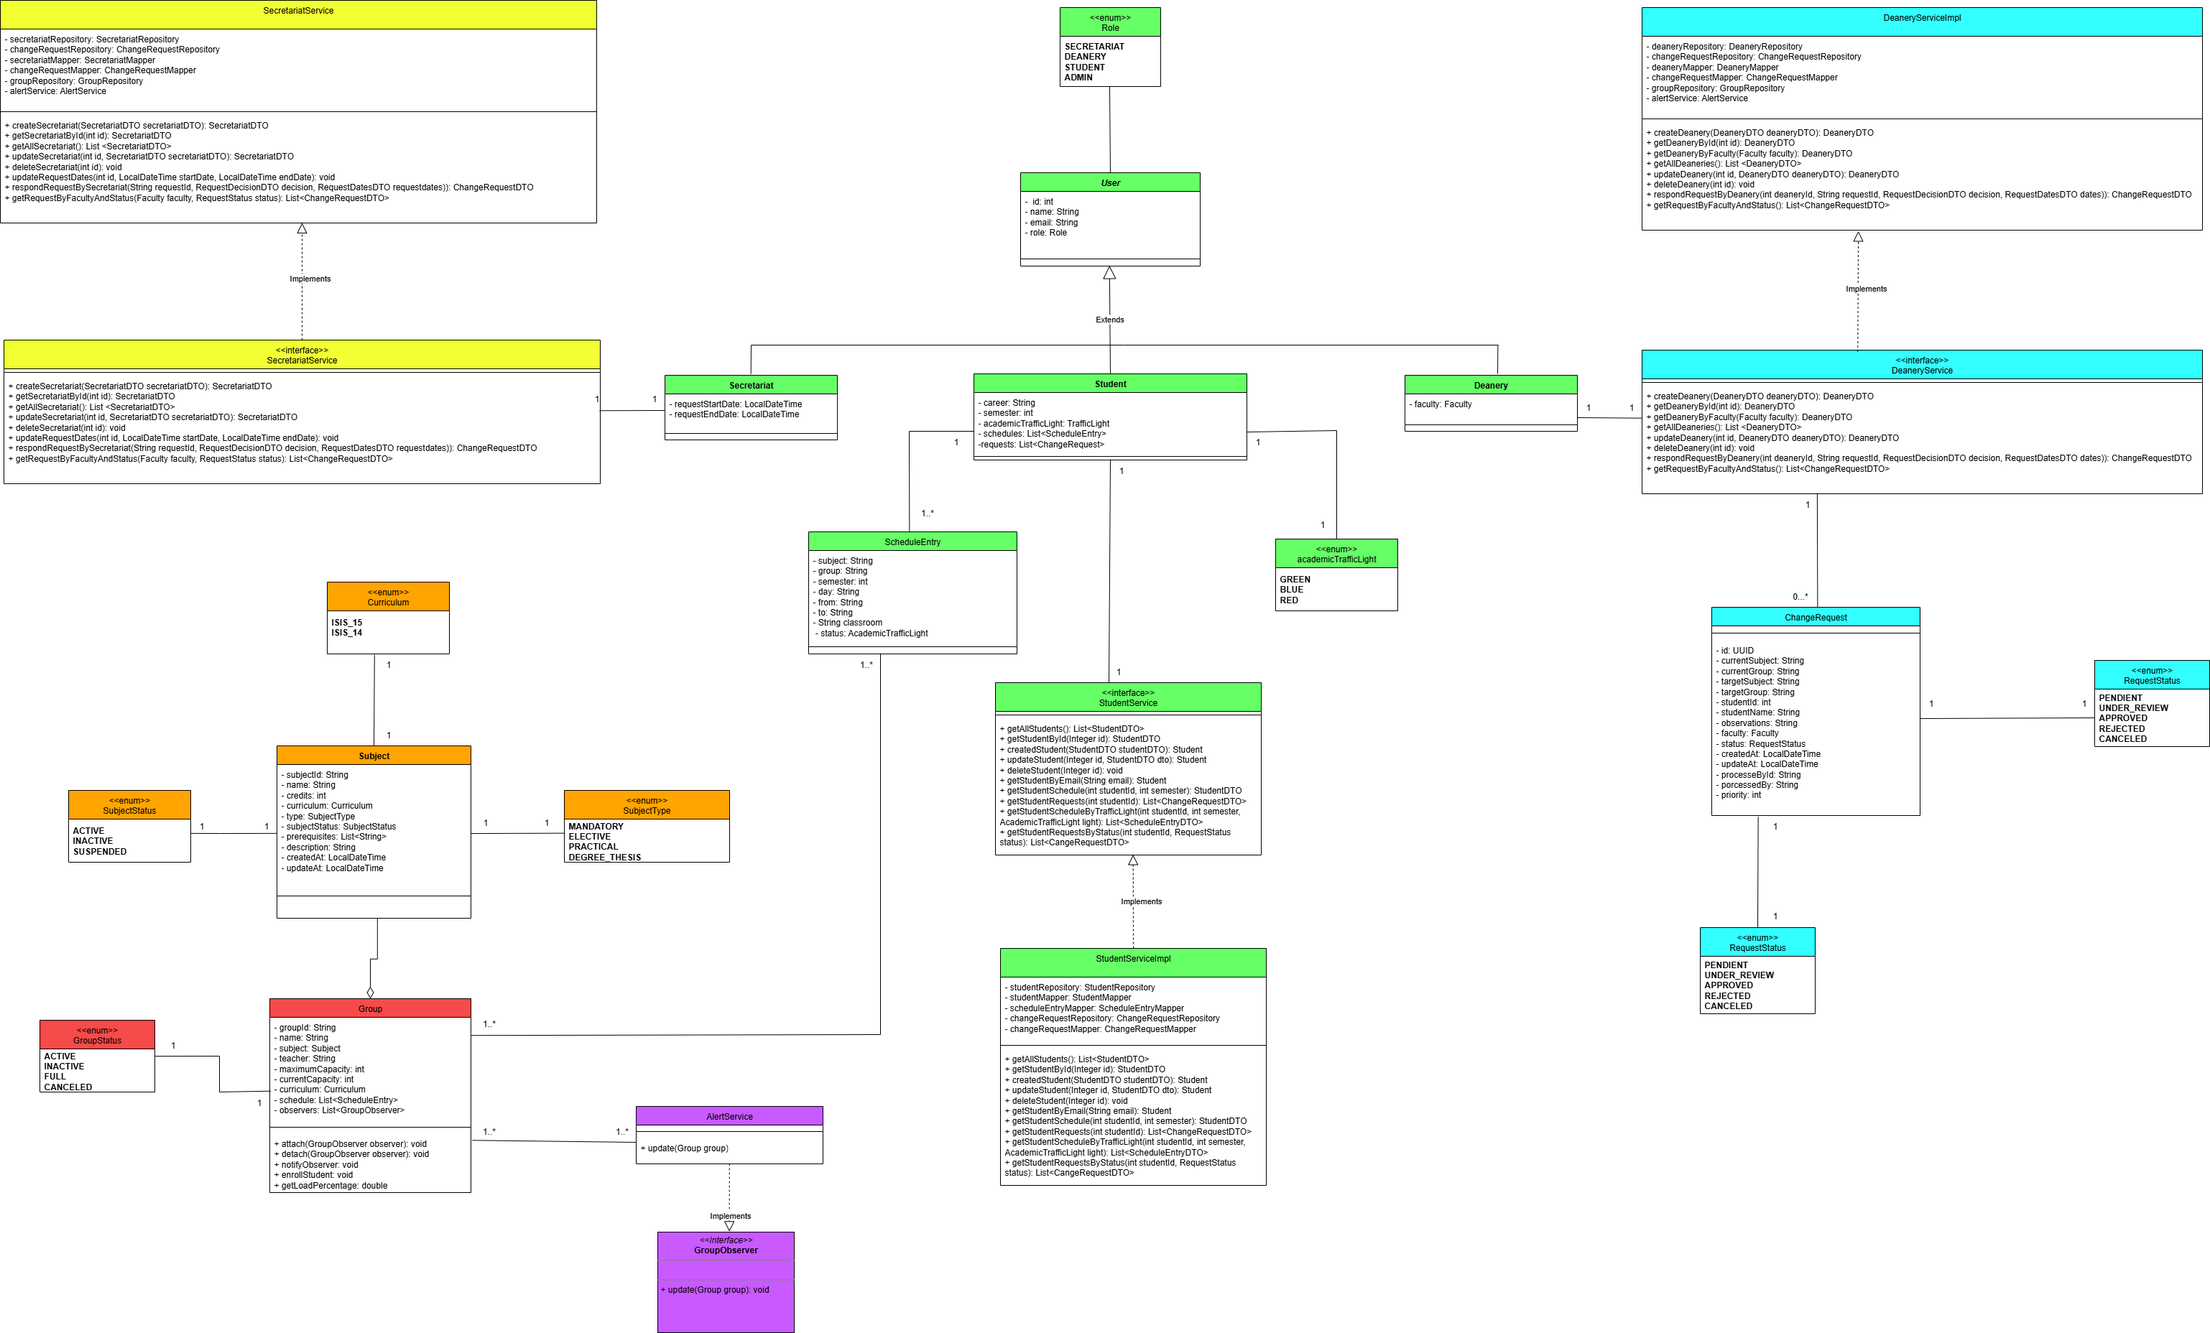
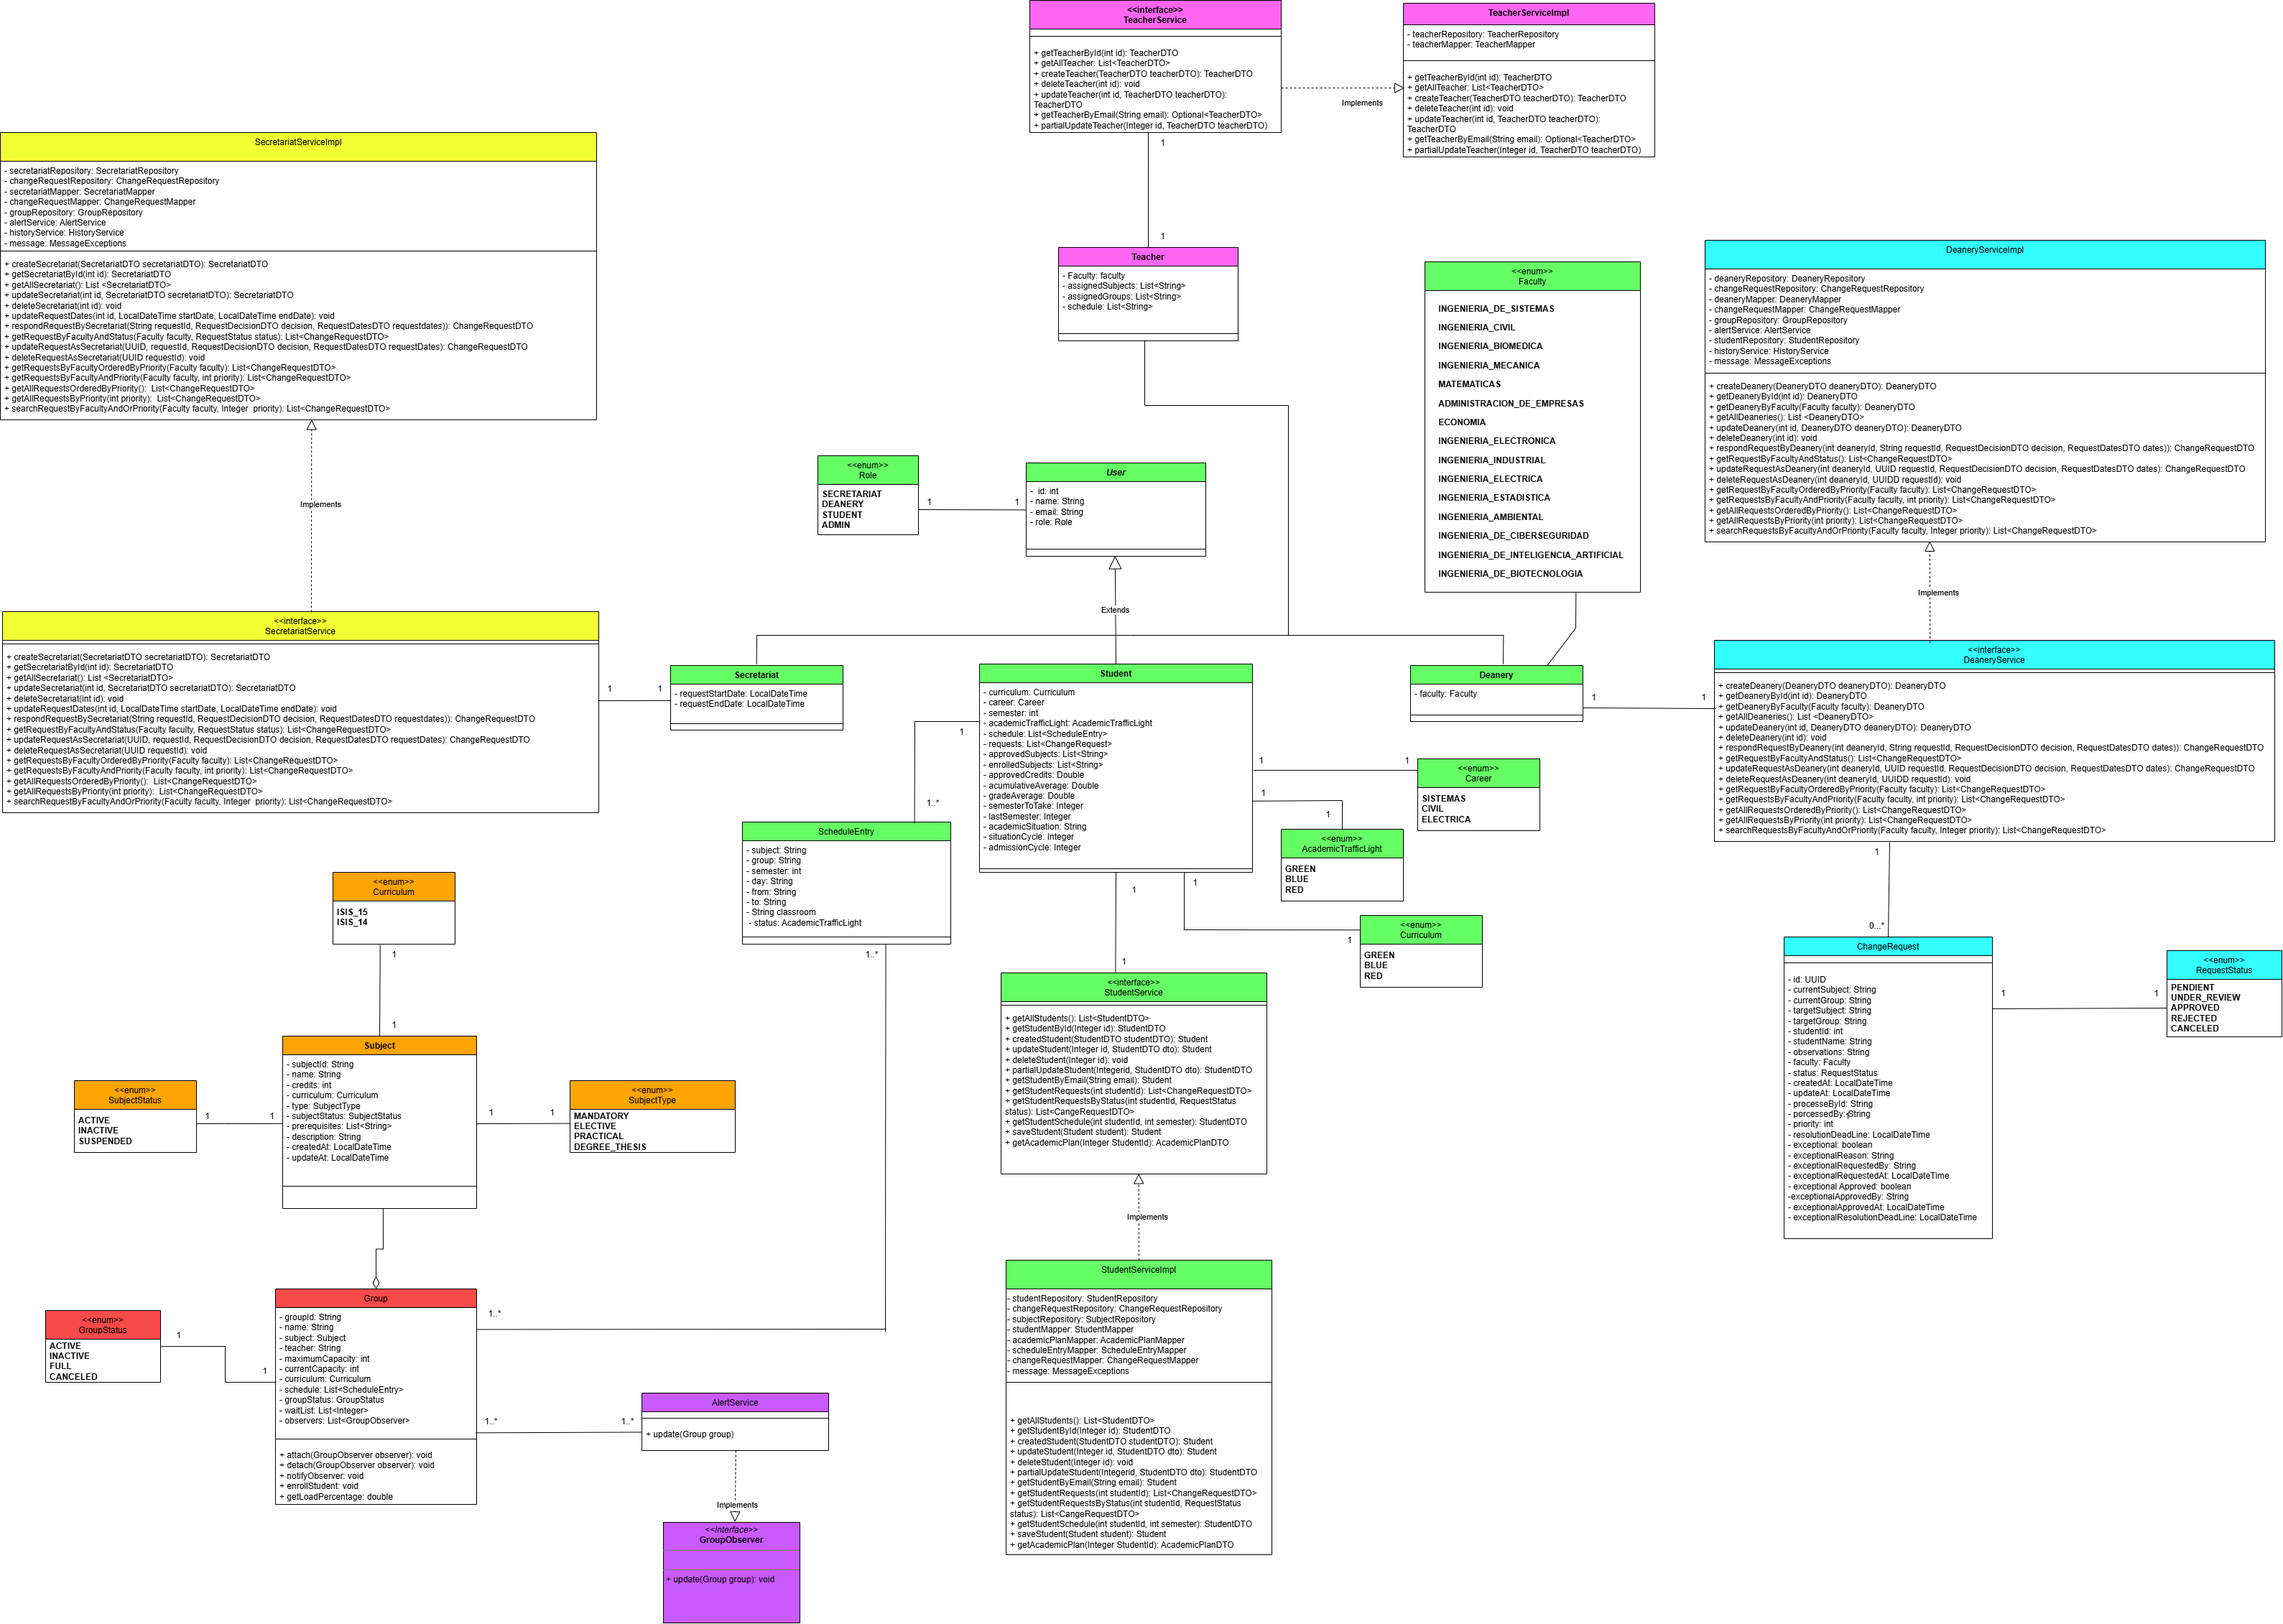
feature - Readme

diff --git a/README.md b/README.md
@@ -113,6 +113,18 @@ Se realizo el diagrama identificando los subcomponentes que interactuan con el c
 
 ![alt text](docs/uml/DiagramaClases.png)
 
+El diagrama representa la estructura de un sistema académico-administrativo. Contiene clases relacionadas con usuarios (como Student, Teacher, Deanery, Secrtetariat) y sus roles . Se incluyen entidades para gestión de solicitudes de cambio (ChangeRequest, ChangeRequestDTO) y el manejo de materias con los grupos.
+
+Las relaciones principales muestran:
+
+Herencia entre User y sus subclases (Student, Teacher, Deanery), lo que permite la especialización de comportamientos según el tipo de usuario.
+
+Asociaciones entre usuarios y solicitudes de cambio, indicando qué usuario puede crear, aprobar o gestionar una solicitud.
+
+Vínculos entre materias, carreras, roles y facultades, representando la organización de los cursos dentro de la institución.
+
+En general, el diagrama muestra una arquitectura orientada a objetos que integra la gestión de usuarios, solicitudes, materias, grupos y notificaciones de alertas para avisar sobre las capacidades de un grupo.
+
 ### **Patrones de diseño:**
 
 #### **Observer**
@@ -251,5 +263,4 @@ kubectl apply -f kubernetes/service.yaml
 
 - luego abrimos en el navegador localhost para verificar el funcionamiento de los enpoints definidos.
 
-
-
+## PRUEBAS DE SWAGGER
